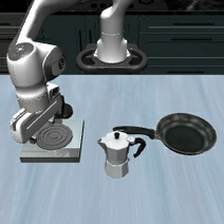
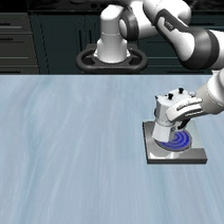
Back up latest evaluation tooling and artifacts

diff --git a/evaluation/libero/summarize_abc_rollouts.py b/evaluation/libero/summarize_abc_rollouts.py
@@ -72,11 +72,15 @@ def main() -> None:
         writer.writerows(detail_rows)
     csv_path.with_suffix(".csv.tmp").replace(csv_path)
 
-    expected_tasks = {"libero_spatial": 10}
+    suites = sorted({suite for _, suite, _ in records})
+    if not suites:
+        suites = ["libero_spatial"]
+    expected_tasks = {suite: 90 if suite == "libero_90" else 10 for suite in suites}
+    rendered_suites = ", ".join(suites)
     lines = [
         "# A/B/C LIBERO rollout summary",
         "",
-        "Protocol: LIBERO-Spatial only; 50 episodes/task using each official initial state once; seed 7; CFG 1.5; action chunk 8.",
+        f"Protocol: {rendered_suites}; 50 episodes/task using each official initial state once; seed 7; CFG 1.5; action chunk 8.",
         "",
         "| Model | Suite | Tasks attempted/expected | Skipped | Episodes | Successes | Success rate |",
         "| --- | --- | ---: | ---: | ---: | ---: | ---: |",

diff --git a/evaluation/libero/summarize_libero10_abc.py b/evaluation/libero/summarize_libero10_abc.py
@@ -34,8 +34,12 @@ def main() -> None:
             with path.open() as handle:
                 for line in handle:
                     record = json.loads(line)
+                    # Some parallel rollout launchers do not pass --model to
+                    # eval_libero.py.  The enclosing A/B/C directory is the
+                    # authoritative model identity for aggregation.
+                    record["model"] = model
                     key = (
-                        record["model"],
+                        model,
                         int(record["runtime_task_index"]),
                         int(record["initial_state_id"]),
                     )
